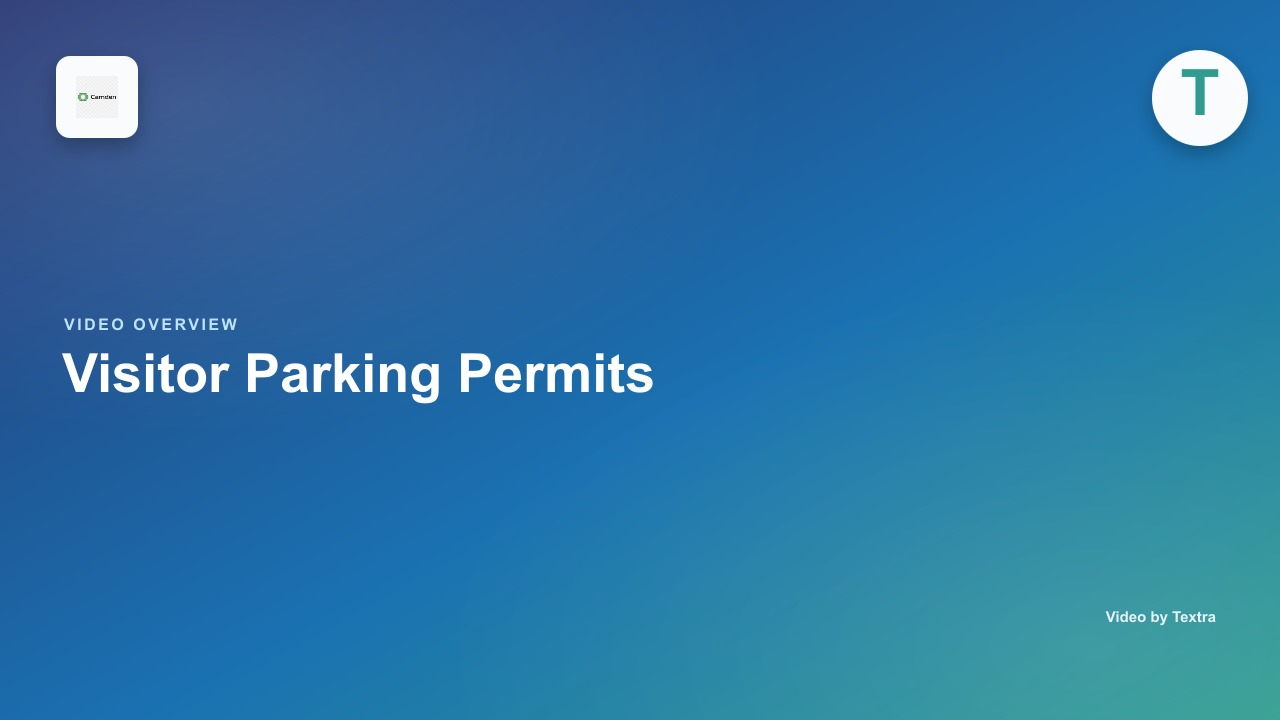
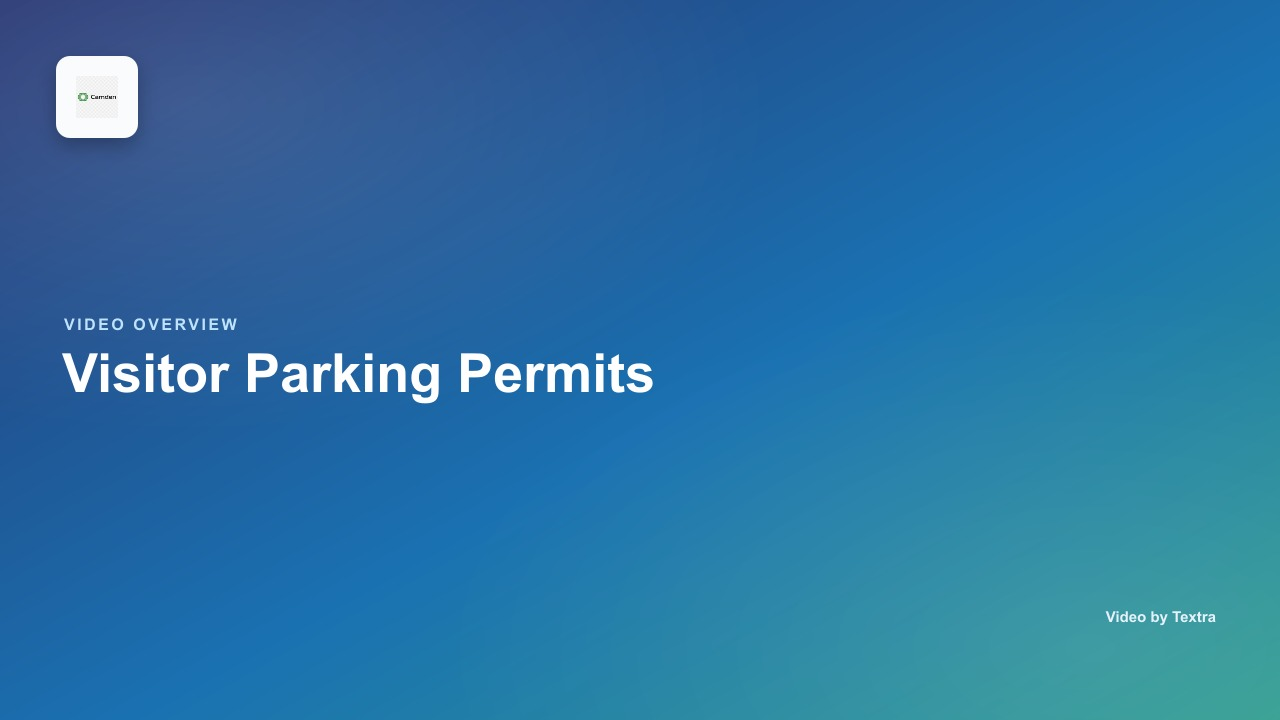
Remove old SVG poster with background T; regenerate clean JPG poster

Changed region(s): [[0.875, 0.0611, 1.0, 0.2139]]

diff --git a/components/LocalAuthorities/ARPPartnershipSection.tsx b/components/LocalAuthorities/ARPPartnershipSection.tsx
@@ -1,18 +1,96 @@
 'use client';
 
+import { useState } from 'react';
 import { C, sh } from '@/lib/theme';
 
 const WRAP = { maxWidth: 1200, margin: '0 auto', padding: '0 40px' };
 
 const councils = [
-  { name: 'Breckland', role: 'Founding partner', year: '2003', logo: '/assets/logos/breckland council logo.jpeg' },
-  { name: 'East Cambridgeshire', role: 'Partner authority', year: '2003', logo: '/assets/logos/East Camb council logo2.png' },
-  { name: 'East Suffolk', role: 'Partner authority', year: '2017', logo: '/assets/logos/East Suffolk Logo.png' },
-  { name: 'Fenland', role: 'Partner authority', year: '2003', logo: '/assets/logos/fenland council logo.webp' },
-  { name: 'West Suffolk', role: 'Partner authority', year: '2003', logo: '/assets/logos/west suffolk council logo.png' },
+  {
+    name: 'Breckland',
+    role: 'Founding partner',
+    logo: '/assets/logos/breckland council logo.jpeg',
+    residents: '145k',
+    channel: '"Your Breckland" Print Magazine',
+    frequency: '3x annually',
+    videoVolume: '36-48 videos/year',
+    contentTopics: 'Waste, Cost-of-Living, Planning, Events',
+    painPoint: 'High print costs (£30-36k/year) limit reach & frequency',
+    benefits: [
+      { label: 'Cost Savings', value: 'Save £12-18k/year', icon: '💰' },
+      { label: 'Reach Expansion', value: 'Monthly updates vs quarterly', icon: '📢' },
+      { label: 'Staff Efficiency', value: 'Reduce contact center calls 30%', icon: '⏱' }
+    ]
+  },
+  {
+    name: 'East Cambridgeshire',
+    role: 'Partner authority',
+    logo: '/assets/logos/East Camb council logo2.png',
+    residents: '91k',
+    channel: 'Web + Email (no print)',
+    frequency: 'Monthly press releases',
+    videoVolume: '24-36 videos/year',
+    contentTopics: 'Cost-of-Living, Housing, Community',
+    painPoint: 'No print reach for non-digital residents; low email engagement',
+    benefits: [
+      { label: 'Reach Expansion', value: 'Engage non-digital residents', icon: '📢' },
+      { label: 'Engagement', value: '+45% potential uplift', icon: '📈' },
+      { label: 'Efficiency', value: 'Consolidate multiple channels', icon: '⚡' }
+    ]
+  },
+  {
+    name: 'East Suffolk',
+    role: 'Partner authority',
+    logo: '/assets/logos/East Suffolk Logo.png',
+    residents: '248k',
+    channel: '"East Suffolk Magazine" + Digital',
+    frequency: '2x print + weekly web',
+    videoVolume: '48-60 videos/year',
+    contentTopics: 'Waste, Housing, Planning, Cost-of-Living',
+    painPoint: 'Managing 248k residents across channels; overwhelmed contact center',
+    benefits: [
+      { label: 'Staff Efficiency', value: 'Free up 60+ hours/year', icon: '⏱' },
+      { label: 'Cost Savings', value: 'Reduce print magazine spend', icon: '💰' },
+      { label: 'Engagement', value: 'Weekly video updates', icon: '📺' }
+    ]
+  },
+  {
+    name: 'Fenland',
+    role: 'Partner authority',
+    logo: '/assets/logos/fenland council logo.webp',
+    residents: '104k',
+    channel: '"The Fenlander" Email Newsletter',
+    frequency: 'Monthly',
+    videoVolume: '24-36 videos/year',
+    contentTopics: 'Waste, Food Waste, Cost-of-Living, Events',
+    painPoint: 'Low email open rates; food waste rollout needs clarity',
+    benefits: [
+      { label: 'Engagement', value: '+45% potential uplift', icon: '📈' },
+      { label: 'Clarity', value: 'Explain food waste rollout 2025-26', icon: '🎥' },
+      { label: 'Reach Expansion', value: 'Monthly video newsletter', icon: '📢' }
+    ]
+  },
+  {
+    name: 'West Suffolk',
+    role: 'Partner authority',
+    logo: '/assets/logos/west suffolk council logo.png',
+    residents: '183k',
+    channel: '"Thriving West Suffolk" Magazine',
+    frequency: 'Quarterly (pilot)',
+    videoVolume: '24-36 videos/year',
+    contentTopics: 'Business Grants, Planning, Community',
+    painPoint: 'New magazine pilot—need to prove ROI quickly',
+    benefits: [
+      { label: 'Measurable Results', value: 'Track views, clicks, actions', icon: '📊' },
+      { label: 'Engagement', value: 'Boost pilot performance', icon: '🚀' },
+      { label: 'Efficiency', value: 'Weekly videos + quarterly print', icon: '⚡' }
+    ]
+  },
 ];
 
 export default function ARPPartnershipSection() {
+  const [selectedCouncil, setSelectedCouncil] = useState(councils[0].name);
+
   return (
     <section style={{ background: '#fff', paddingTop: 80, paddingBottom: 80, position: 'relative', overflow: 'hidden' }}>
       {/* Background elements */}
@@ -37,71 +115,47 @@ export default function ARPPartnershipSection() {
           {councils.map((council, i) => (
             <div
               key={council.name}
+              onClick={() => setSelectedCouncil(council.name)}
               style={{
-                background: '#fff',
-                border: `1px solid ${C.gray100}`,
+                background: selectedCouncil === council.name ? 'rgba(102,188,173,0.1)' : '#fff',
+                border: `2px solid ${selectedCouncil === council.name ? '#66BCAD' : C.gray100}`,
                 borderRadius: 12,
                 padding: 28,
-                boxShadow: sh.sm,
-                transition: 'transform 200ms, box-shadow 200ms',
+                boxShadow: selectedCouncil === council.name ? sh.md : sh.sm,
+                transition: 'transform 200ms, box-shadow 200ms, background 200ms, border 200ms',
                 cursor: 'pointer',
                 display: 'flex',
                 flexDirection: 'column',
               }}
               onMouseEnter={(e) => {
                 e.currentTarget.style.transform = 'translateY(-4px)';
-                e.currentTarget.style.boxShadow = sh.md;
+                if (selectedCouncil !== council.name) {
+                  e.currentTarget.style.boxShadow = sh.md;
+                }
               }}
               onMouseLeave={(e) => {
                 e.currentTarget.style.transform = 'none';
-                e.currentTarget.style.boxShadow = sh.sm;
+                if (selectedCouncil !== council.name) {
+                  e.currentTarget.style.boxShadow = sh.sm;
+                }
               }}
             >
               {/* Logo */}
-              <img src={council.logo} alt={council.name} style={{ height: 50, objectFit: 'contain', marginBottom: 16, alignSelf: 'center' }} />
+              <img src={council.logo} alt={council.name} style={{ height: 70, objectFit: 'contain', marginBottom: 16, alignSelf: 'center' }} />
 
               <div style={{ fontSize: 9, fontWeight: 700, letterSpacing: '0.08em', textTransform: 'uppercase', color: '#66BCAD', marginBottom: 8 }}>
                 {council.role}
               </div>
-              <h3 style={{ fontSize: 15, fontWeight: 700, color: C.navy, lineHeight: 1.3, margin: '0 0 12px 0' }}>
+              <h3 style={{ fontSize: 15, fontWeight: 700, color: C.navy, lineHeight: 1.3, margin: '0 0 6px 0' }}>
                 {council.name}
               </h3>
-              <div style={{ fontSize: 13, color: C.gray500, fontWeight: 500 }}>
-                Since {council.year}
+              <div style={{ fontSize: 12, color: C.gray600, fontWeight: 500 }}>
+                {council.residents} residents
               </div>
             </div>
           ))}
         </div>
 
-        {/* Stats */}
-        <div style={{ background: 'linear-gradient(135deg, rgba(102,188,173,0.05), rgba(39,53,114,0.02))', border: `1px solid ${C.gray100}`, borderRadius: 16, padding: 40, textAlign: 'center' }}>
-          <div style={{ display: 'grid', gridTemplateColumns: 'repeat(3, 1fr)', gap: 40 }}>
-            <div>
-              <div style={{ fontSize: 36, fontWeight: 900, color: '#66BCAD', lineHeight: 1, marginBottom: 8 }}>
-                1000+
-              </div>
-              <div style={{ fontSize: 14, color: C.gray600, fontWeight: 500 }}>
-                Residents engaged monthly
-              </div>
-            </div>
-            <div>
-              <div style={{ fontSize: 36, fontWeight: 900, color: '#66BCAD', lineHeight: 1, marginBottom: 8 }}>
-                45%
-              </div>
-              <div style={{ fontSize: 14, color: C.gray600, fontWeight: 500 }}>
-                Average engagement uplift
-              </div>
-            </div>
-            <div>
-              <div style={{ fontSize: 36, fontWeight: 900, color: '#66BCAD', lineHeight: 1, marginBottom: 8 }}>
-                20+
-              </div>
-              <div style={{ fontSize: 14, color: C.gray600, fontWeight: 500 }}>
-                Video topics deployed
-              </div>
-            </div>
-          </div>
-        </div>
       </div>
     </section>
   );

diff --git a/components/LocalAuthorities/LAHeroSection.tsx b/components/LocalAuthorities/LAHeroSection.tsx
@@ -49,14 +49,29 @@ export default function LAHeroSection() {
             </a>
           </div>
 
-          {/* ARP Logo */}
-          <div style={{ marginBottom: 48, textAlign: 'center', display: 'flex', flexDirection: 'column', alignItems: 'center' }}>
-            <div style={{ fontSize: 12, color: 'rgba(255,255,255,0.7)', fontWeight: 500, marginBottom: 20, letterSpacing: '0.06em', textTransform: 'uppercase' }}>
+          {/* ARP Logo with Council List */}
+          <div style={{ marginBottom: 48 }}>
+            <div style={{ fontSize: 12, color: 'rgba(255,255,255,0.7)', fontWeight: 500, marginBottom: 24, letterSpacing: '0.06em', textTransform: 'uppercase', textAlign: 'center' }}>
               Proud to be working with
             </div>
-            <img src="/assets/logos/APR-removebg-preview.png" alt="ARP Logo" style={{ height: 120, maxWidth: 400, objectFit: 'contain', filter: 'drop-shadow(0 0 1px rgba(0,0,0,0.7))' }} />
-            <div style={{ fontSize: 14, color: 'rgba(255,255,255,0.8)', fontWeight: 500, lineHeight: 1.6, textAlign: 'center', marginTop: 20 }}>
-              covering East Suffolk, Fenland, West Suffolk, East Cambridgeshire, Breckland Councils
+            <div style={{ display: 'flex', gap: 40, alignItems: 'center', justifyContent: 'center', maxWidth: 700, marginLeft: 'auto', marginRight: 'auto' }}>
+              {/* Logo Box */}
+              <div style={{ background: 'rgba(255,255,255,0.12)', borderRadius: 12, padding: '24px 32px', flexShrink: 0 }}>
+                <img src="/assets/logos/APR-removebg-preview.png" alt="ARP Logo" style={{ height: 100, maxWidth: 200, objectFit: 'contain', filter: 'drop-shadow(0 0 1px rgba(0,0,0,0.7))' }} />
+              </div>
+
+              {/* Council List */}
+              <div style={{ textAlign: 'left' }}>
+                <div style={{ fontSize: 13, color: 'rgba(255,255,255,0.9)', fontWeight: 500, marginBottom: 12, letterSpacing: '0.05em' }}>
+                  Covering:
+                </div>
+                <ul style={{ margin: 0, paddingLeft: 20, listStyle: 'disc', textAlign: 'left' }}>
+                  <li style={{ fontSize: 14, color: 'rgba(255,255,255,0.85)', fontWeight: 400, lineHeight: 1.8, marginBottom: 4 }}>East Suffolk</li>
+                  <li style={{ fontSize: 14, color: 'rgba(255,255,255,0.85)', fontWeight: 400, lineHeight: 1.8, marginBottom: 4 }}>Fenland, West Suffolk</li>
+                  <li style={{ fontSize: 14, color: 'rgba(255,255,255,0.85)', fontWeight: 400, lineHeight: 1.8, marginBottom: 4 }}>East Cambridgeshire</li>
+                  <li style={{ fontSize: 14, color: 'rgba(255,255,255,0.85)', fontWeight: 400, lineHeight: 1.8 }}>Breckland Councils</li>
+                </ul>
+              </div>
             </div>
           </div>
 

diff --git a/components/LocalAuthorities/LACTASection.tsx b/components/LocalAuthorities/LACTASection.tsx
@@ -106,10 +106,12 @@ export default function CTASection() {
                 <label style={{ display: 'block', fontSize: 13, fontWeight: 600, color: C.navy, marginBottom: 8 }}>
                   Council name *
                 </label>
-                <select
+                <input
+                  type="text"
                   name="council"
                   value={formData.council}
                   onChange={handleChange}
+                  placeholder="E.g., East Suffolk Council"
                   required
                   style={{
                     width: '100%',
@@ -119,17 +121,10 @@ export default function CTASection() {
                     fontSize: 14,
                     fontFamily: 'var(--font-montserrat), -apple-system, BlinkMacSystemFont, sans-serif',
                     boxSizing: 'border-box',
-                    cursor: 'pointer',
                   }}
-                >
-                  <option value="">Select your council...</option>
-                  <option value="Breckland">Breckland Council</option>
-                  <option value="East Cambridgeshire">East Cambridgeshire District Council</option>
-                  <option value="East Suffolk">East Suffolk Council</option>
-                  <option value="Fenland">Fenland District Council</option>
-                  <option value="West Suffolk">West Suffolk Council</option>
-                  <option value="other">Other council</option>
-                </select>
+                  onFocus={(e) => { e.target.style.borderColor = '#66BCAD'; }}
+                  onBlur={(e) => { e.target.style.borderColor = C.gray200; }}
+                />
               </div>
 
               {/* Department */}

diff --git a/components/LocalAuthorities/LASolutionSection.tsx b/components/LocalAuthorities/LASolutionSection.tsx
@@ -69,19 +69,6 @@ export default function SolutionSection() {
                 {solution.step}
               </div>
 
-              {/* Connector line (hide on last) */}
-              {i < solutions.length - 1 && (
-                <div style={{
-                  position: 'absolute',
-                  top: 20,
-                  left: 56,
-                  width: 'calc(100% + 16px)',
-                  height: 2,
-                  background: 'linear-gradient(90deg, #66BCAD, transparent)',
-                  zIndex: 0,
-                  pointerEvents: 'none',
-                }} />
-              )}
 
               {/* Content */}
               <div style={{ paddingLeft: 80, paddingTop: 8 }}>
@@ -99,7 +86,7 @@ export default function SolutionSection() {
         {/* Key benefits */}
         <div style={{ marginTop: 80, background: 'linear-gradient(135deg, rgba(102,188,173,0.08), rgba(39,53,114,0.02))', border: `1px solid ${C.gray100}`, borderRadius: 16, padding: 40 }}>
           <h3 style={{ fontSize: 20, fontWeight: 700, color: C.navy, textAlign: 'center', margin: '0 0 32px 0' }}>
-            What councils see:
+            What councils can potentially see:
           </h3>
           <div style={{ display: 'flex', justifyContent: 'space-around', gap: 20, flexWrap: 'nowrap' }}>
             <div style={{ textAlign: 'center', flex: 1, minWidth: 0 }}>

diff --git a/app/localauthorities/page.tsx b/app/localauthorities/page.tsx
@@ -9,7 +9,6 @@ import SolutionSection from '@/components/LocalAuthorities/LASolutionSection';
 import DepartmentsSection from '@/components/LocalAuthorities/LADepartmentsSection';
 import VideoShowcaseSection from '@/components/LocalAuthorities/LAVideoShowcaseSection';
 import ROICalculatorSection from '@/components/LocalAuthorities/LAROICalculatorSection';
-import TestimonialsSection from '@/components/LocalAuthorities/LATestimonialsSection';
 import CTASection from '@/components/LocalAuthorities/LACTASection';
 
 export default function LocalAuthoritiesPage() {
@@ -24,7 +23,6 @@ export default function LocalAuthoritiesPage() {
         <DepartmentsSection />
         <VideoShowcaseSection />
         <ROICalculatorSection />
-        <TestimonialsSection />
         <CTASection />
       </main>
       <FooterSection />
